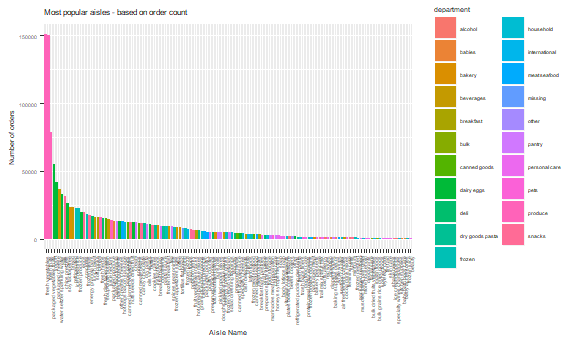
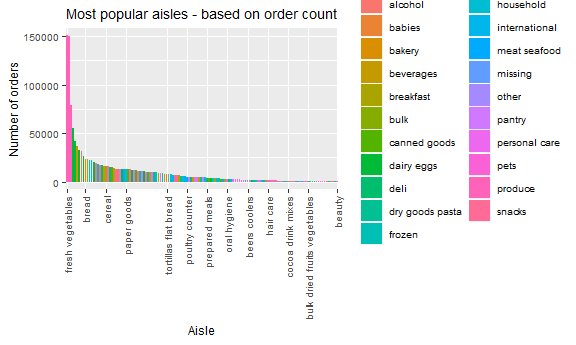
details of graphs

Changed region(s): [[0.0, 0.0, 0.9688, 0.9855], [0.0625, 0.029, 0.5938, 0.058]]

diff --git a/p8105_hw3_cac2225.md b/p8105_hw3_cac2225.md
@@ -28,14 +28,14 @@ brfss_smart2010 = brfss_smart2010
 library(tidyverse)
 ```
 
-    ## -- Attaching packages ------------------------------ tidyverse 1.2.1 --
+    ## -- Attaching packages ---------------------- tidyverse 1.2.1 --
 
     ## v ggplot2 3.0.0     v purrr   0.2.5
     ## v tibble  1.4.2     v dplyr   0.7.6
     ## v tidyr   0.8.1     v stringr 1.3.1
     ## v readr   1.1.1     v forcats 0.3.0
 
-    ## -- Conflicts --------------------------------- tidyverse_conflicts() --
+    ## -- Conflicts ------------------------- tidyverse_conflicts() --
     ## x dplyr::filter() masks stats::filter()
     ## x dplyr::lag()    masks stats::lag()
 
@@ -111,7 +111,8 @@ ggplot(plot_spaghetti, aes(x = year, y = n_counties, color = state)) +
   labs(
     title = "# of Locations per State, 2002 to 2010",
     y = "Number of Locations"
-  )
+  ) + 
+  theme(legend.background = element_rect(size = .5))
 ```
 
 <img src="p8105_hw3_cac2225_files/figure-markdown_github/creating spaghetti plot number locations in each state, 2002 to 2010-1.png" width="90%" />
@@ -141,7 +142,7 @@ plot_avg_response = filtered_brfss_smart2010 %>%
     title = "Five Panel Plot per Response type - distribution of State-level averages over time",
     y = "Proportion of each Response"
   ) + 
-  theme(axis.text.x = element_text(angle = 0, vjust = 0.5, hjust = 1), text = element_text(size = 7)) + 
+  theme(axis.text.x = element_text(angle = 0, vjust = 0.5, hjust = 1), text = element_text(size = 5)) + 
   theme(plot.title = element_text(size = 5))
 ```
 
@@ -227,16 +228,17 @@ Using the n\_distinct and count functions, there are 134 distinct aisle\_ids, th
 ``` r
 orders_count = instacart %>% 
     group_by(aisle, aisle_id, department) %>%
-    summarise(total_order_count = n())
+    summarise(total_order_count = n()) %>% 
+  arrange(desc(total_order_count))
 
 ggplot(orders_count, aes(fct_reorder(aisle, desc(total_order_count)), total_order_count, fill = department)) + 
   geom_bar(stat = "identity") + 
-  theme(axis.text.x = element_text(angle = 90, vjust = 0.5, hjust = 1), text = element_text(size = 5)) + 
+  theme(axis.text.x = element_text(angle = 90, vjust = 0.5, hjust = 1), text = element_text(size = 9)) + 
   labs(
     title = "Most popular aisles - based on order count",
-    x = "Aisle Name",
-    y = "Number of orders"
-  )
+    y = "Number of orders") + 
+      scale_x_discrete("Aisle", breaks = c("fresh vegetables", "bread", "cereal", "paper goods", "cookie cakes", "tortillas flat bread", "poultry counter", "prepared meals", "oral hygiene", "beers coolers", "hair care", "cocoa drink mixes", "bulk dried fruits vegetables", "beauty")) + 
+  theme(legend.background = element_rect(size = .5))
 ```
 
 <img src="p8105_hw3_cac2225_files/figure-markdown_github/number ordered items per aisle-1.png" width="90%" />
@@ -340,8 +342,8 @@ plot_snow_v = ny_noaa %>%
   labs(
     title = "Distribution of Snowfall greater than 0 mm and less than 100 mm, for each year"
   ) + 
-  theme(plot.title = element_text(size = 7)) + 
-  theme(axis.text.x = element_text(angle = 90, vjust = 0.5, hjust = 1), text = element_text(size = 5))
+  theme(plot.title = element_text(size = 10)) + 
+  theme(axis.text.x = element_text(angle = 90, vjust = 0.5, hjust = 1), text = element_text(size = 10))
 
 (plot_temp)/(plot_snow_v)
 ```
